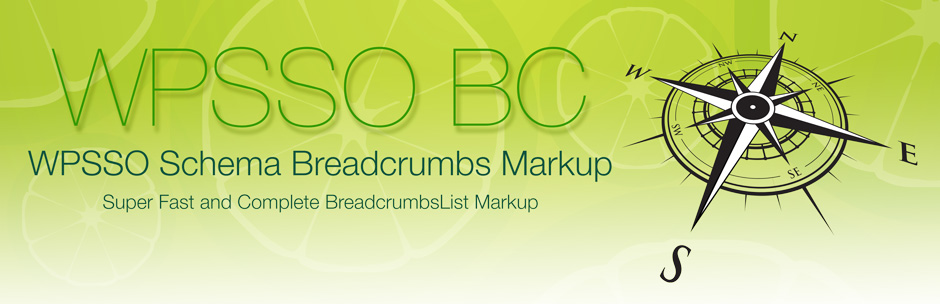
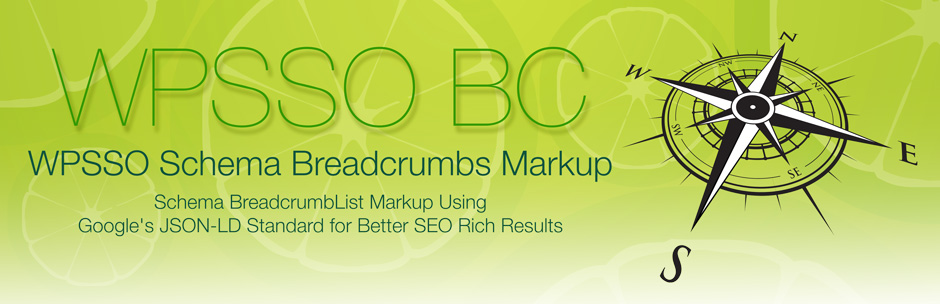
non-essential support files (documentation and assets)

diff --git a/index.html b/index.html
@@ -29,7 +29,7 @@
 
 <table>
 <tr><th align="right" valign="top" nowrap>Plugin Name</th><td>WPSSO Schema Breadcrumbs Markup</td></tr>
-<tr><th align="right" valign="top" nowrap>Summary</th><td>WPSSO Core add-on offers Schema BreadcrumbList markup using Google&#039;s preferred JSON-LD format for Rich Results SEO.</td></tr>
+<tr><th align="right" valign="top" nowrap>Summary</th><td>WPSSO Core add-on offers Schema BreadcrumbList markup using Google&#039;s JSON-LD standard for better SEO Rich Results.</td></tr>
 <tr><th align="right" valign="top" nowrap>Stable Version</th><td>2.1.0</td></tr>
 <tr><th align="right" valign="top" nowrap>Requires At Least</th><td>WordPress 3.8</td></tr>
 <tr><th align="right" valign="top" nowrap>Tested Up To</th><td>WordPress 5.2.2</td></tr>
